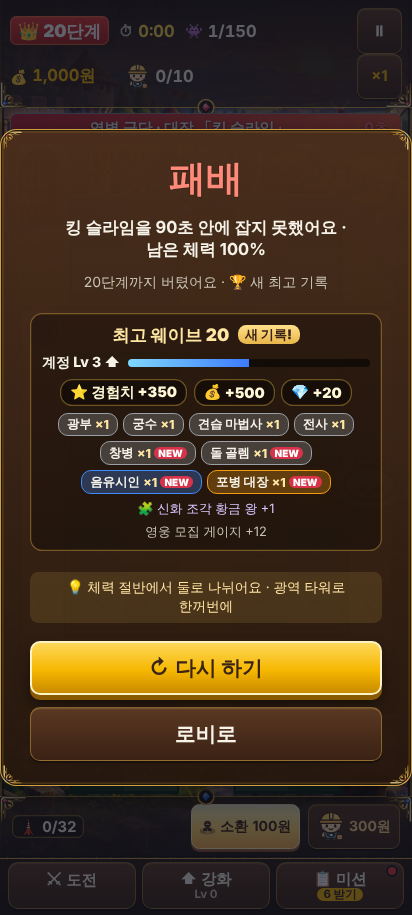
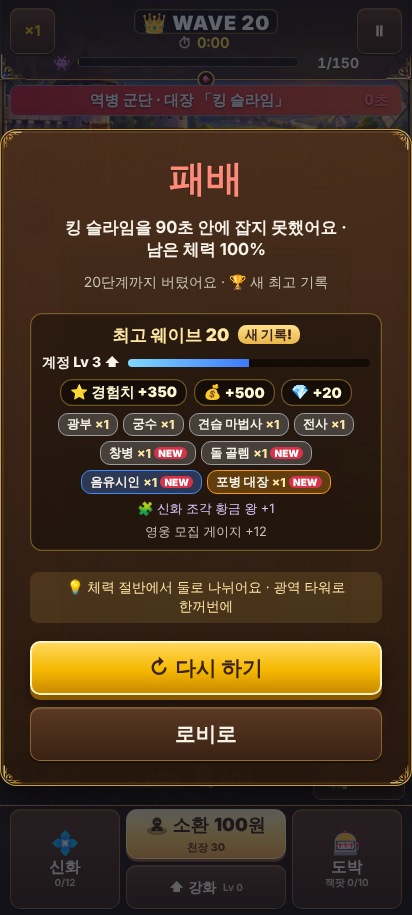
GI-5 E2E 고침·G 통합 기록·스크린샷
- 위 HUD: 가운데 'WAVE n'이 자리가 모자라면 줄임표 (양옆 칩 min-content만이면 좁은 개발자 판에서 ⏸가 무대 밖으로 밀림)
- E2E: m5 도박 해금은 계정 레벨을 rtd.progress에 (G-3부터 정답), g2 아래 띠 한 줄 검사를 세로 겹침 묶음 수 = 1로
- docs/PROGRESS.md 'G 통합' 절, docs/screens/GI-lobby·GI-battle·GI-codex·GI-boss.png

Claude-Session: https://claude.ai/code/session_01TtVcSoY665DmsK6h3dcafN

diff --git a/e2e/g2.spec.ts b/e2e/g2.spec.ts
@@ -148,7 +148,17 @@ test.describe('G-2 a. 테두리 테마', () => {
         const band = document.querySelector('.hud-bottom') as HTMLElement;
         const br = band.getBoundingClientRect();
         const kids = [...band.querySelectorAll<HTMLElement>(':scope > *, .hud-choice-slot > *')].filter((e) => e.offsetParent !== null);
-        const tops = new Set(kids.map((e) => Math.round(e.getBoundingClientRect().top / 6)));
+        // 줄 수 = 세로로 겹치지 않는 묶음 수 (G 통합: G-1 아래 띠는 [👷 300원]이 46px로 다른 칩보다 커서, 위 끝 6px 반올림으로는
+        // 한 줄인데도 3칸으로 세어졌다 — 가운데 정렬된 한 줄은 모두 세로로 겹친다)
+        const boxes = kids.map((e) => e.getBoundingClientRect()).sort((a, b) => a.top - b.top);
+        const tops = new Set<number>();
+        let rowBottom = Number.NEGATIVE_INFINITY;
+        for (const b of boxes) {
+          if (b.top >= rowBottom - 0.5) {
+            tops.add(tops.size);
+            rowBottom = b.bottom;
+          } else rowBottom = Math.min(rowBottom, b.bottom);
+        }
         return {
           doc: document.documentElement.scrollWidth - window.innerWidth,
           band: band.scrollWidth - band.clientWidth,
@@ -159,7 +169,7 @@ test.describe('G-2 a. 테두리 테마', () => {
       expect(over.doc).toBeLessThanOrEqual(0);
       expect(over.band).toBeLessThanOrEqual(0);
       expect(over.right).toBeLessThanOrEqual(0.5);
-      expect(over.rows).toBeLessThanOrEqual(2); // 한 줄 (버튼 높이 차이로 반올림 두 칸까지)
+      expect(over.rows).toBe(1); // 한 줄
       // 맵 영역 재기: 맵 0줄 위 끝이 HUD 아래 끝보다 아래 (게임 px → 화면 px)
       const mapTop = await page.evaluate(() => {
         const s = (window as unknown as { __rtd: { game: { scene: { getScene(k: string): { mapLayout: { originY: number } } } } } }).__rtd.game.scene.getScene('Game');

diff --git a/e2e/m5.spec.ts b/e2e/m5.spec.ts
@@ -433,7 +433,12 @@ test('도박 해금: 계정 Lv1이면 1000원·10000원 🔒 + 누르면 "계정
   await expect(page.locator('.toast', { hasText: '계정 Lv7에 열려요' })).toBeVisible();
   expect(await inScene(page, (s) => s.match.state.gambles, null)).toBe(0);
   // 계정 레벨 7 (메타 저장소) → 다음 판부터 1000원 열림
-  await page.evaluate(() => localStorage.setItem('rtd.account', JSON.stringify({ v: 1, level: 7, hidden: [] })));
+  // G-3: 계정 레벨은 판 밖 성장 저장(rtd.progress)이 정답 — rtd.account 레벨은 처음 한 번만 옮겨 온다
+  await page.evaluate(() => {
+    const p = JSON.parse(localStorage.getItem('rtd.progress')!) as { level: number };
+    p.level = 7;
+    localStorage.setItem('rtd.progress', JSON.stringify(p));
+  });
   await start(page, '?seed=42');
   // G-1: 돈 도박은 하단 메뉴 [🎰 도박] 시트로 옮겼다 (예전: 강화 시트의 도박 탭)
   await page.getByTestId('menu-gamble').click();
@@ -441,7 +446,7 @@ test('도박 해금: 계정 Lv1이면 1000원·10000원 🔒 + 누르면 "계정
   await expect(page.getByTestId('gamble-table-10000')).toContainText('🔒 계정 Lv20');
   await page.getByTestId('gamble-table-1000').click();
   await expect.poll(() => inScene(page, (s) => s.match.state.gambles, null)).toBe(1);
-  await page.evaluate(() => localStorage.removeItem('rtd.account'));
+  await page.evaluate(() => localStorage.removeItem('rtd.progress'));
   expect(errors).toEqual([]);
 });
 

diff --git a/src/ui/styles.css b/src/ui/styles.css
@@ -4022,11 +4022,21 @@ body {
 .hud-side-r {
   justify-content: flex-end;
 }
-/* G 통합: 개발자 판 왼쪽 [×1][⏭][💰+] 세 칩이 '👑 WAVE 10' 아래로 깔리던 것 — 양옆 칸이 칩 너비 아래로 줄지 않게
-   (넓으면 가운데가 살짝 옆으로 밀릴 뿐, 높이·한 줄은 그대로) */
+/* G 통합: 개발자 판 왼쪽 [×1][⏭][💰+] 세 칩이 '👑 WAVE 10' 아래로 깔리던 것 — 양옆 칸은 칩 너비 아래로 줄지 않고,
+   자리가 모자라면 가운데 'WAVE n' 글자가 줄임표로 줄어든다 (좁은 화면 개발자 판만, 높이·한 줄은 그대로) */
+.hud-top-row {
+  grid-template-columns: minmax(min-content, 1fr) minmax(0, auto) minmax(min-content, 1fr);
+}
 .hud-top-row > .hud-side-l,
 .hud-top-row > .hud-side-r {
   min-width: min-content;
+}
+.hud-top-row > .hud-wave {
+  min-width: 0;
+  max-width: 100%;
+}
+.hud-top-row > .hud-wave .hud-stage {
+  max-width: 100%;
 }
 .hud-wave {
   display: flex;

diff --git a/docs/PROGRESS.md b/docs/PROGRESS.md
@@ -1241,3 +1241,31 @@
 - 검사: `npm ci`, `npm test`(**1,299 통과·3 건너뜀 / 69파일**), `npm run check`, `npm run build` 통과. 요청한 E2E 3개 스펙은 사전 설치 Chromium(`/usr/bin/chromium`)으로 **10 통과·4 실패·1 건너뜀(7.2분)**. 실패는 이전 배경 텍스처 제거, 짧은 보스 컷인 관측, 일반 조작 전체 제한 90초, 기본 배속 틱 수 기준 미달(10, 기대 >12). 테스트를 약화하지 않았다. 교체 전 커밋 비교와 세부 실패 위치는 [VALIDATION.md](art/higgsfield/chunky/VALIDATION.md)에 기록한다.
 - **Claude 후속 통합 주의**: 현재 전투 보스 19종은 외부 WebP 대신 절차 SD 그림을 사용한다. 갤러리의 타워·적·인물 및 인물 초상도 절차 그림 경로가 남아 있어 WebP 교체만으로 모든 화면이 바뀌지는 않는다. 이 작업 범위는 에셋과 기록이다. G-1/G-2/G-3 통합 시 외부 그림 연결과 기존 표정·파츠 애니메이션을 함께 검토할 것. `art/chunky-handoff`에만 푸시하고 main은 푸시하지 않는다.
 - **교체 전 비교 결과**: `ca86c46` 별도 작업 폴더에서 실패 4개만 같은 Chromium으로 단독 실행해 **4개 모두 같은 위치에서 재현**했다(조작 `smoke:118`의 90초 초과, 틱 수 `10`도 동일). 이번 비교에서 새 그림 교체로 생긴 실패는 확인되지 않았다. 소프트웨어 렌더링 성능 및 기존 배경/컷인 타이밍 흐름은 후속 점검 대상이다.
+
+## G 통합 (상태: 통합 완료, main 병합 전 — 갈래 `feat/g-integrate`, `feat/feedback` 3cbd4a0에서)
+
+> 조정자 요청: G-1(게임 시스템)·G-2(금테 테마)·G-3(로비·성장)·FB-1(피드백)·ART-1(통통한 캐주얼 그림 159장)을 한 갈래로. 로컬만 (푸시·main 병합 없음).
+
+- **합친 순서 (모두 `--no-ff`)**: `feat/feedback`(= G-2 → G-3 → FB-1 일직선) 위에 ① main = 원격 `origin/main` **ef4947b**(피드백 에이전트 작업 흐름·이슈 양식 — 로컬 `main` 가지는 오래된 56d95cf라 이미 조상, 원격 main이 요청 설명과 같은 내용) ② `feat/g1-systems` 959d0b3 ③ `art/chunky-handoff` 8cdcf97.
+- **충돌 처리**:
+  - `src/sim/unlocks.ts`: G-3 진짜 구현 (G-1 자리 표시 버림). G-3 `MatchOptions.lockedHidden` → `MatchContext.lockedHidden` → `Craft.craftPlan`·도감이 읽는 길을 통합 테스트로 확인 (`tests/integration/gi-integrate.test.ts`: 새 계정 → `progress.matchOptions` → 판 → craft 'locked'·도감 문구, 해방하면 조합 가능, 개발자 판은 안 잠김).
+  - [신화] 도감 조각 수: `ProgressStore.fragmentsOf(id)`(가진 조각/해방 20, 해방했거나 히든이 아니면 null)를 `Game.codexModel` → `codexSheetModel(fragments)`에 연결 → 잠긴 줄 '🔒 해방 필요 (조각 n/20)' (전부 한글). 로비 📖 도감(G-3)과 판 안 💠 신화 도감(G-1)은 둘 다 둔다.
+  - `TowerSprite.ts`: G-2 받침대·접지 그림자·반짝임·타격 빛·별 배지 + G-1 무더기 자리(`setSlot`). 받침대 = G-2 크기(하한 0.85·상한 1.22) × 무더기 배수 (G-2 하한 때문에 무더기 받침대가 안 줄던 것).
+  - `Game.ts` 신화 조합 연출: G-1의 예전 `mergeSuck(from, to, color)` → G-2 모양(`grade:'hidden'`, 초상 카드, 빛은 레전드 색).
+  - `e2e/a1.spec.ts`: G-1 칸 수 계산 + G-2 `summonFxStats`. `docs/UI.md` 11(G-2)·12(G-3)·13(G-1) 장, PROGRESS는 모든 절 그대로.
+  - 자동으로 합쳐진 것 확인: 일시정지 메뉴 = G-1 '필살기 자동' + G-3 '로비로' + FB-1 [💬 피드백 보내기], 아래 묶음 [신화][소환][도박]/[강화]는 G-1 배치 + G-2 금테 변수(나무 버튼·금줄·소환문 아이콘).
+- **그림 연결 (ART-1 후속)**:
+  - `phaserArt.enemyCharacterTexture`: 하수인뿐 아니라 대장·4천왕·군주도 WebP 우선, 파일이 없으면 SD 절차 그림. 보스는 지름이 이미 커서 배수 `EXTERNAL_BOSS_SCALE` 1.1 (하수인 1.5를 쓰면 박쥐 여왕이 2칸 너비로 맵 밖까지).
+  - 갤러리(`?gallery=1`): `art/characters/externalDom.ts`(manifest → Image)로 타워·각성·적·인물 카드를 WebP로 (같은 대기 몸동작), [🖼 그림] 토글·`art=0`이면 절차 그림. 인물은 WebP가 보통 표정 한 장이라 화남·웃음은 절차 그림.
+  - 이미 WebP를 쓰던 곳(확인만): 정보 패널·캐릭터 카드·고르기 창·[신화] 도감 초상(`towerPortraitKey`), 로비 영웅 초상(`Boot.portraitOf`), 도전 시트 보스 그림(`enemyCharacterTexture` → 이제 WebP).
+  - `docs/art/higgsfield/chunky/`(queue.json 159개 프롬프트·prompt-audit·PROMPT_REVISION·VALIDATION)와 ART-1 절에서 다른 상용 게임 이름을 'chunky casual mobile defense style'(통통한 캐주얼 모바일 디펜스 그림체)로. prompt-audit 해시는 생성 당시 문구 기준이라 그대로 + note. 커밋 기록(8cdcf97 메시지 등)은 고치지 않았다.
+  - `contact-sheet-159.png` 7.4MB → `contact-sheet-159.webp` 1024 너비·품질 72 **0.9MB** (링크 고침). 원본 PNG는 git 기록(8cdcf97)에는 남아 있다.
+- **화면 고침**: 위 HUD 개발자 판 [×1][⏭][💰+]가 '👑 WAVE 10' 아래 깔리던 것 → 양옆 칸 `min-width: min-content`, 가운데는 자리가 모자라면 줄임표 (좁은 화면 개발자 판만). 갤러리 제목 한 줄.
+- **테스트 바꾼 것 (의도한 동작 변경)**: `battle-update` 보스 텍스처 기대값 SD → WebP(+텍스처를 지우면 SD로 돌아가는 것까지), `m5` 도박 해금은 계정 레벨을 `rtd.progress`에 넣는다(G-3부터 계정 레벨의 정답, `rtd.account`는 처음 한 번만 옮김 — G-3은 m5를 돌리지 않아 못 본 것), `g2` 아래 띠 '한 줄' 검사를 세로 겹침 묶음 수 = 1로 (G-1 [👷 300원] 46px 때문에 6px 반올림이 한 줄을 3칸으로 셈 — 기준은 ≤2 → 1로 오히려 엄격). 새 `e2e/gi.spec.ts` 4개 · `characters` 갤러리 그림 1개 · Vitest `gi-integrate` 2개.
+- **완료 조건**: Vitest **75파일 1,406 통과 · 3 건너뜀**, `npm run check`·`npm run build` 통과. 전체 E2E 1차(`E2E_PORT=5186`, 58.7분) **192개 중 183 통과 · 7 실패 · 2 건너뜀** — 실패 7 = g2 테마 3(위 줄 검사) · hud-layout 개발자 HUD 3(내 HUD 고침 1차가 ⏸를 무대 밖으로 밈) · m5 도박 해금 1 → 고친 뒤 g2·hud-layout·m5 **33/33**, HUD 영향 스펙(g1·map-fill·f10·t2·t3-screen·smoke) **45/45**, gi 4/4. G-1이 마지막 변경 뒤 안 돌린 m3b·battle-update·f10-boss·characters는 1차 전체 실행에서 모두 통과.
+- **스크린샷** (412×915, DPR 1): `docs/screens/GI-lobby.png` · `GI-battle.png`(마당 무더기 1·2·3 + 금테 묶음) · `GI-codex.png`(잠긴 신화 조각 7/20·0/20) · `GI-boss.png`(박쥐 여왕 WebP).
+- **남은 문제**:
+  - 통통한 캐주얼 그림은 절차 그림보다 몸집이 커서 3개 무더기 칸은 옆 칸까지 겹쳐 보인다 (G-1 무더기 크기 0.68은 절차 그림 기준). 실제 기기에서 무더기 크기·간격 확인 필요.
+  - 보스 WebP는 몸 한 장이라 절차 SD 보스의 종류별 파츠 박자(`bossPose`)는 몸 전체 흔들림으로만 보인다. 보스 컷인 그림(`assets/cutins`)은 예전 그림체 그대로.
+  - 인물 WebP는 표정이 하나 → 대화 UI(M11b)에서 표정이 필요하면 절차 그림이나 새 그림.
+  - 갤러리 카드 그림 크기는 눈으로 맞춘 값 (타워 = 게임 배율, 적 = 상자 92%/88%).
